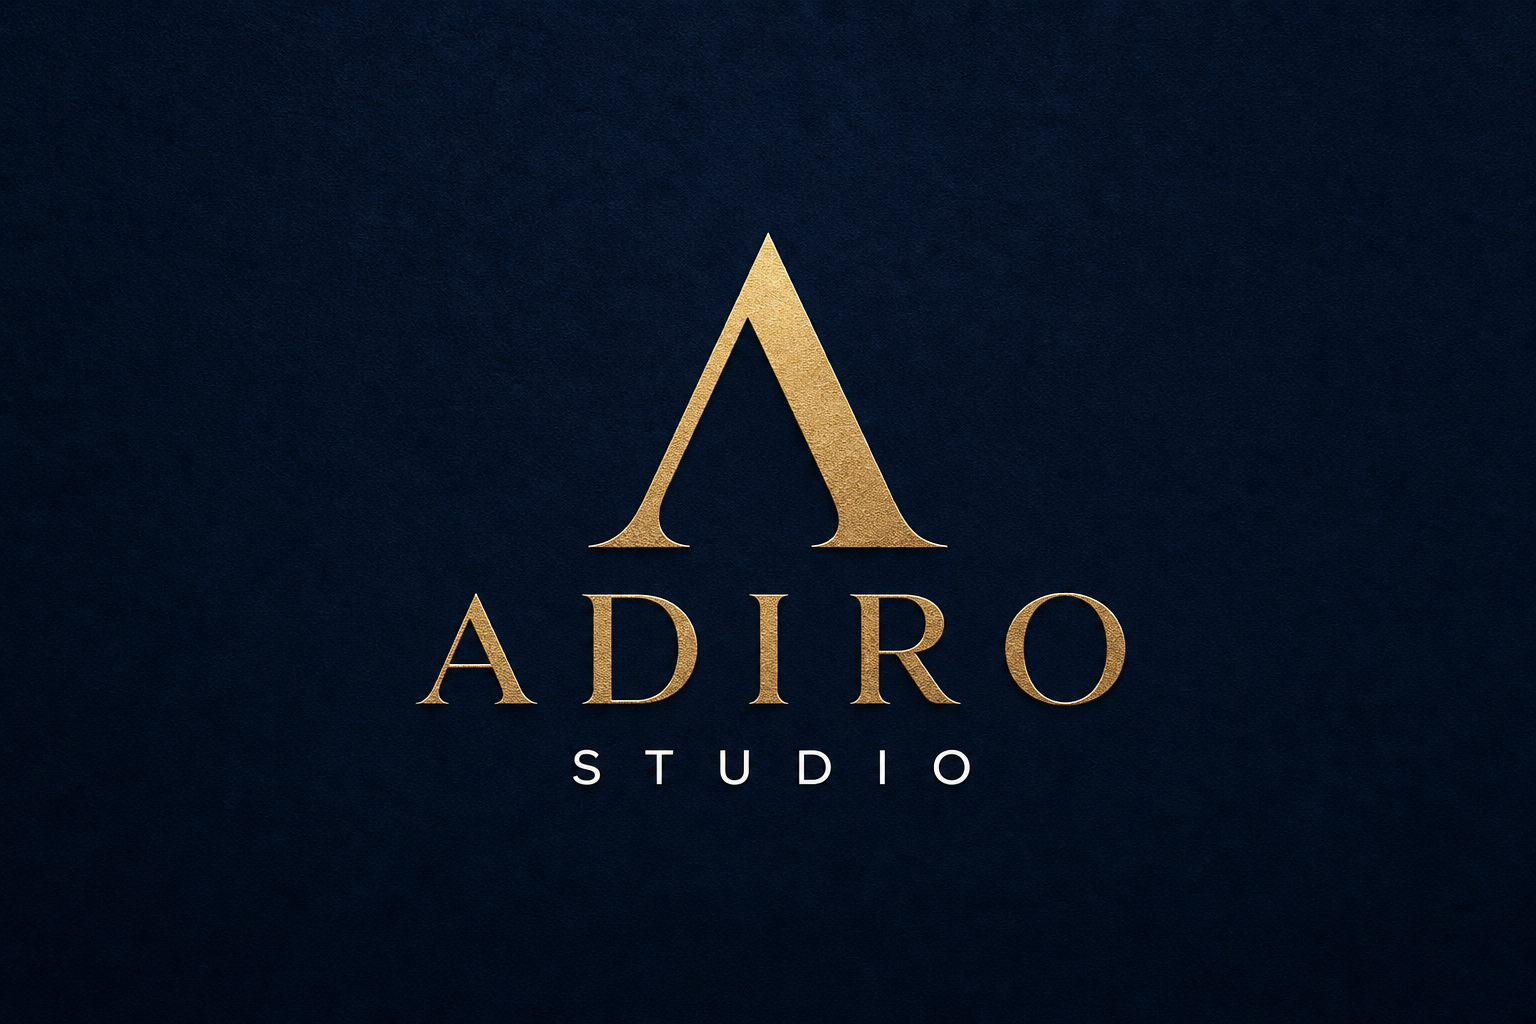
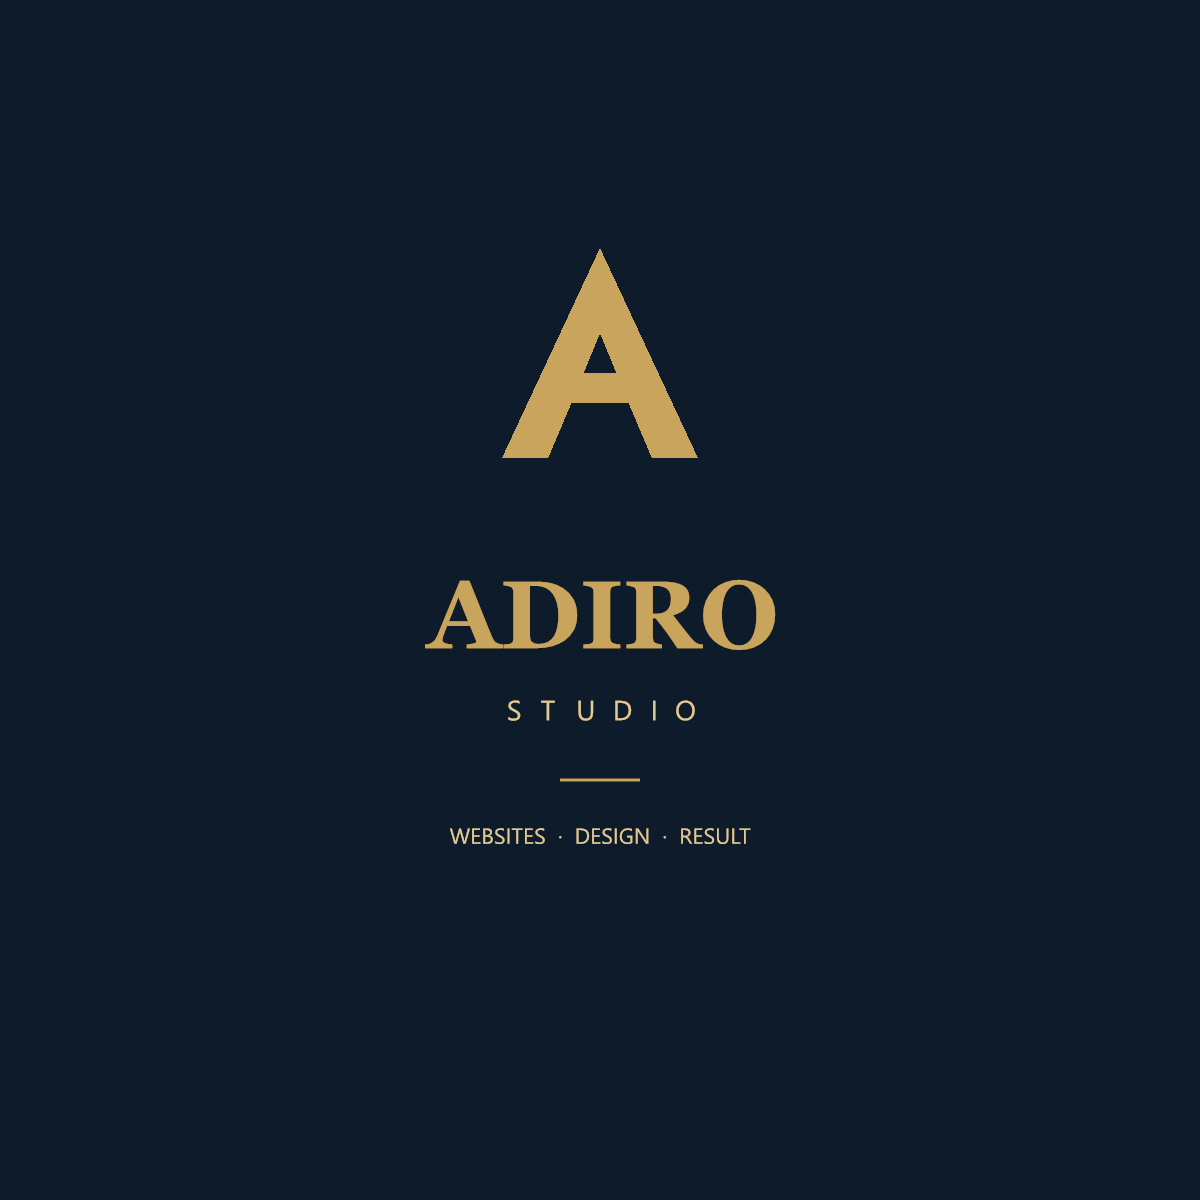
Replace OG preview with sharp vector brand mark

diff --git a/app/layout.tsx b/app/layout.tsx
@@ -29,11 +29,11 @@ export const metadata: Metadata = {
     siteName: site.brand,
     images: [
       {
-        url: "/og-image.jpg",
+        url: "/og-image.png",
         width: 1200,
-        height: 675,
+        height: 1200,
         alt: "Adiro Studio",
-        type: "image/jpeg",
+        type: "image/png",
       },
     ],
   },
@@ -41,7 +41,7 @@ export const metadata: Metadata = {
     card: "summary_large_image",
     title: site.title,
     description: site.description,
-    images: ["/og-image.jpg"],
+    images: ["/og-image.png"],
   },
   robots: {
     index: true,
